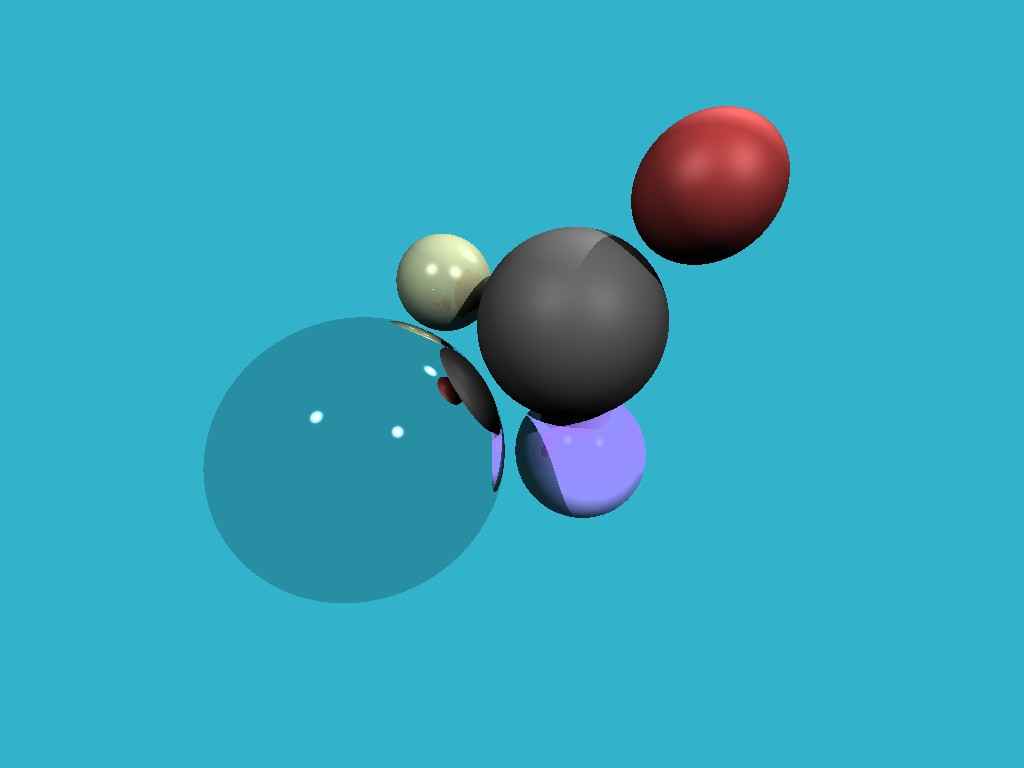
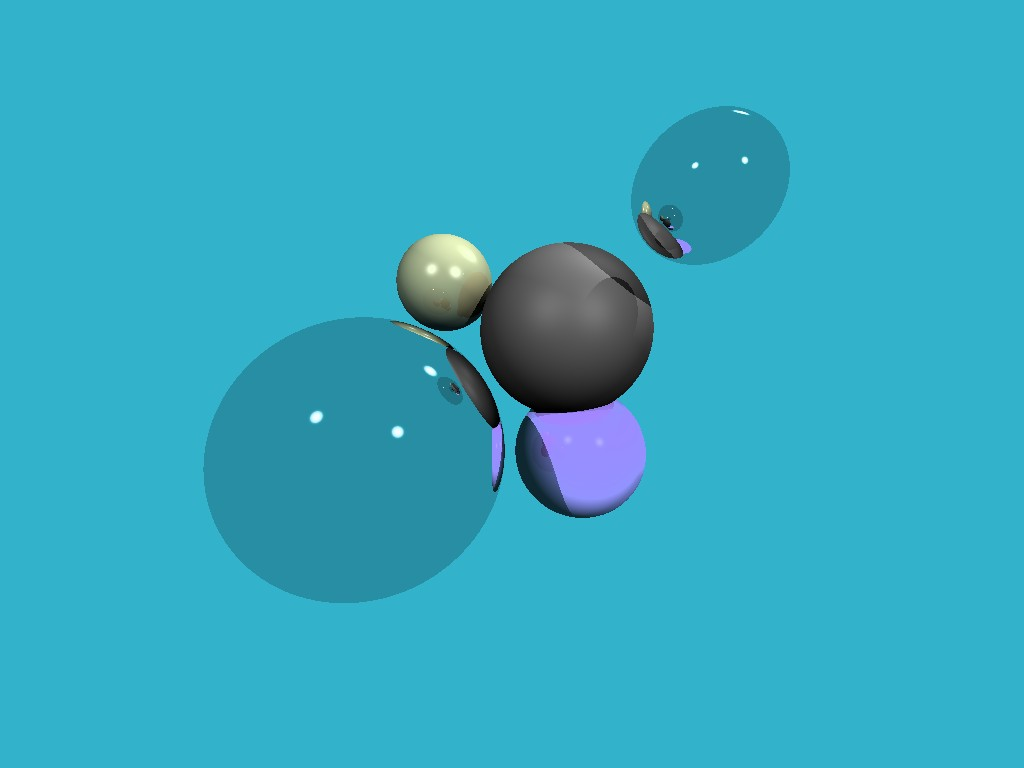
recursion depth tweak

Changed region(s): [[0.4375, 0.125, 0.7812, 0.5], [0.4062, 0.4375, 0.5938, 0.5625], [0.5938, 0.5, 0.625, 0.5312]]

diff --git a/src/Program.cs b/src/Program.cs
@@ -45,7 +45,7 @@ namespace raytracer
             Vec3f N = new Vec3f();
             Material material = new Material();
 
-            if(depth > 4 || !SceneIntersect(origin, dir, spheres, ref point, ref N, ref material))
+            if(depth > 5 || !SceneIntersect(origin, dir, spheres, ref point, ref N, ref material))
             {
                 return new Vec3f(0.2f, 0.7f, 0.8f);
             }
@@ -147,7 +147,7 @@ namespace raytracer
         static void Main()
         {
             Material ivory = new Material(new Vec3f(0.6f, 0.3f, 0.1f), new Vec3f(0.4f, 0.4f, 0.3f), 50f);
-            Material red_rubber = new Material(new Vec3f(0.9f, 0.1f, 0.0f), new Vec3f(0.3f, 0.1f, 0.1f), 10f);
+            Material red_rubber = new Material(new Vec3f(0.0f, 10.1f, 0.8f), new Vec3f(1.0f, 1.0f, 1.0f), 1425f);
             Material mirror = new Material(new Vec3f(0.0f, 10.0f, 0.8f), new Vec3f(1.0f, 1.0f, 1.0f), 1425f);
             Material charcoal = new Material(new Vec3f(0.95f, 0.05f, 0.0f), new Vec3f(0.15f, 0.15f, 0.15f), 10f);
             Material amethyst = new Material(new Vec3f(0.6f, 0.4f, 0.2f), new Vec3f(0.6f, 0.5f, 0.95f), 200f);
@@ -157,7 +157,7 @@ namespace raytracer
                 new Sphere(new Vec3f(-5.8f, -2.8f, -16), 5.5f, mirror),
                 new Sphere(new Vec3f(8, 8, -16), 2.9f, red_rubber),
                 new Sphere(new Vec3f(-4, 6, -23), 2.8f, ivory),
-                new Sphere(new Vec3f(3, 3, -20), 4.8f, charcoal),
+                new Sphere(new Vec3f(3, 3, -22), 4.8f, charcoal),
                 new Sphere(new Vec3f(4, -4, -23), 3.8f, amethyst),
             };
 

diff --git a/README.md b/README.md
@@ -18,6 +18,8 @@ This project is a learning exercise to understand raytracing fundamentals by con
 - lighting and shadow to the spheres
 - added specular light reflections 
 - added shadows on the spheres
+- reflections and changed sphere position
+- made red_rubber into mirror to check recursion depth which i have set to max 5 here._
 
 ## How to Run
 
